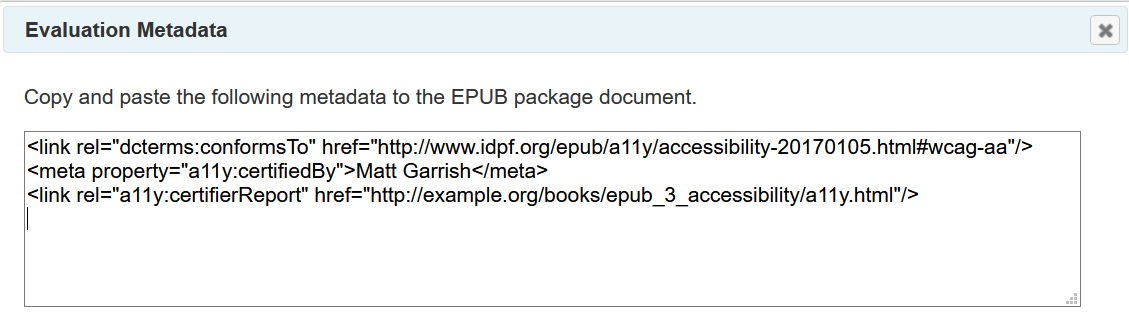
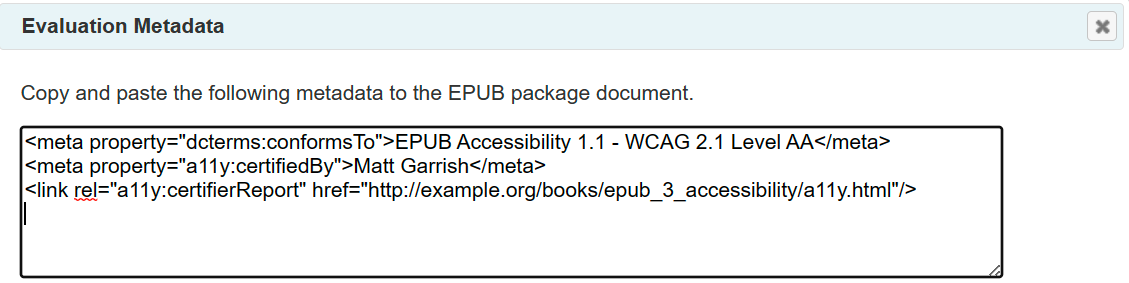
Update accessibility conformance identifiers for EPUB to the 1.1 standard

diff --git a/publishing/docs/metadata/evaluation.html b/publishing/docs/metadata/evaluation.html
@@ -23,27 +23,40 @@
 			}
 			blockquote {
 				margin-left: 1rem;
-			}</style>
+			}
+			dl.conf-map dt, dl.conf-map dd {
+				margin-left: 2rem;
+			}
+			dl.conf-map dt {
+				margin-top: 1.5rem;
+			}
+			dl.conf-map {
+				font-size: 85%;
+			}
+		</style>
 	</head>
 
 	<body>
 		<main>
 			<section id="summary">
 				<h3>Summary</h3>
-				<p>Include accessibility evaluation metadata when an assessment of a publication has been performed to
-					enable conformance discovery and provide identification of the evaluator and their credentials.</p>
+				<p>Include accessibility evaluation metadata to enable conformance discovery and provide identification
+					of the evaluator and their credentials.</p>
 			</section>
 			<section id="ex">
 				<h3>Examples</h3>
+				
 				<figure id="ex-01">
 					<figcaption>
 						<div class="label">Example 1 &#8212; Package Document metadata (EPUB 3)</div>
 						<p>The following example shows a complete set of evaluation metadata for a publication that
-							conforms to the EPUB Accessibility specification at WCAG Level AA.</p>
+							conforms to the EPUB Accessibility 1.1 specification at WCAG Level AA.</p>
 					</figcaption>
+					
 					<pre id="ex-01-src" class="prettyprint linenums small"><code>&lt;metadata>
-  &lt;link rel="dcterms:conformsTo"
-        href="http://www.idpf.org/epub/a11y/accessibility-20170105.html#wcag-aa"/>
+  &lt;meta property="dcterms:conformsTo">
+     EPUB Accessibility 1.1 - WCAG 2.0 Level AA
+  &lt;/meta>
   &lt;meta property="a11y:certifiedBy">Dewey, Checkett and Howe&lt;/meta>
   &lt;meta property="a11y:certifierCredential">Certifiably Accessible&lt;/meta>
   &lt;link rel="a11y:certifierReport"
@@ -51,15 +64,17 @@
   &#8230;
 &lt;/metadata></code></pre>
 				</figure>
+				
 				<figure id="ex-02">
 					<figcaption>
 						<div class="label">Example 2 &#8212; Package Document metadata (EPUB 2)</div>
-						<p>The following example shows how evaluation metadata is expressed in an EPUB 2 publication
+						<p>The following example shows how to express evaluation metadata in an EPUB 2 publication
 							using the <code>meta</code> tag's <code>name</code> and <code>content</code> attributes.</p>
 					</figcaption>
+					
 					<pre id="ex-02-src" class="prettyprint linenums small"><code>&lt;metadata>
   &lt;meta name="dcterms:conformsTo"
-        content="http://www.idpf.org/epub/a11y/accessibility-20170105.html#wcag-aa"/>
+        content="EPUB Accessibility 1.1 - WCAG 2.0 Level AA"/>
   &lt;meta name="a11y:certifiedBy" content="Dewey, Checkett and Howe"/>
   &lt;meta name="a11y:certifierCredential" content="Certifiably Accessible"/>
   &lt;meta name="a11y:certifierReport"
@@ -86,9 +101,9 @@
 			<section id="desc">
 				<h3>Explanation</h3>
 
-				<p>Evaluation metadata is used to provide additional information about the individual or organization
-					that has assessed a publication against accessibility standards. It also allows identification of
-					the standard(s) the publication conforms.</p>
+				<p>Evaluation metadata provides additional information about the individual or organization that has
+					assessed a publication against accessibility standards. It also allows identification of the
+					standard(s) the publication conforms.</p>
 
 				<p>All evaluation metadata described in this section with an <code>a11y:</code> prefix are defined in
 					the <a href="https://www.w3.org/TR/epub-a11y/#app-a11y-vocab">EPUB Accessibility Vocabulary</a>.</p>
@@ -102,48 +117,102 @@
 							</p>
 						</blockquote>
 
-						<p>The <code>dcterms:conformsTo</code> property provides a URL that references the standard the
-							publication conforms to. In the case of EPUB, these conformance URLs are defined in the <a
-								href="https://www.w3.org/TR/epub-a11y">EPUB Accessibility</a> specification.</p>
-
-						<p>The current values to use with this property are:</p>
-
-						<dl>
-							<dt>
-								<code>http://www.idpf.org/epub/a11y/accessibility-20170105.html#wcag-a</code>
-							</dt>
-							<dd>
-								<p>Use of this values indicates conformance with the specification at level A of
-									WCAG.</p>
-							</dd>
-							<dt>
-								<code>http://www.idpf.org/epub/a11y/accessibility-20170105.html#wcag-aa</code>
-							</dt>
-							<dd>
-								<p>Use of this values indicates conformance with the specification at level AA of
-									WCAG.</p>
-							</dd>
-						</dl>
-
-						<p>The <code>dcterms:conformsTo</code> property is only included when a publication meets the
-							requirements of a standard. It is not used to indicate failure. Use the <a
+						<p>The <code>dcterms:conformsTo</code> property in included in a publication when that publication
+							has been checked and confirmed to conform to an accessibility standard. The value is a string
+							or URL that identifies the standard.</p>
+						
+						<div class="note" role="note" aria-labelledby="conformsto-note">
+							<p class="label" id="conformsto-note">Note</p>
+							
+							<p>The property is only included when a publication meets the requirements of a standard. It is
+							not used to indicate failure. Use the <a
 								href="schema-org.html#accessibilitySummary">schema.org
 								<code>accessibilitySummary</code></a> property to record information about failures.</p>
+						</div>
+						
+						<p>For EPUB, this property identifies both the version of the EPUB Accessibility standard the 
+							publication conforms to as well as the version and level of WCAG conformance. The value of the
+							string must conform to the following pattern:</p>
+						
+						<blockquote>
+							<code>EPUB Accessibility 1.1 - WCAG 2.X Level (A|AA|AAA)</code>
+						</blockquote>
+						
+						<p>The value "<code>2.X</code>" is replaced by the version of WCAG (e.g., 2.0 or 2.1) and
+							"<code>(A|AA|AAA)</code>" is replaced by which of those levels was achieved.</p>
+						
+						<p>For example, the following values are currently valid to use with this property:</p>
+
+						<ul>
+							<li>
+								<code>EPUB Accessibility 1.1 - WCAG 2.0 Level A</code>
+							</li>
+							<li>
+								<code>EPUB Accessibility 1.1 - WCAG 2.0 Level AA</code>
+							</li>
+							<li>
+								<code>EPUB Accessibility 1.1 - WCAG 2.0 Level AAA</code>
+							</li>
+							<li>
+								<code>EPUB Accessibility 1.1 - WCAG 2.1 Level A</code>
+							</li>
+							<li>
+								<code>EPUB Accessibility 1.1 - WCAG 2.1 Level AA</code>
+							</li>
+							<li>
+								<code>EPUB Accessibility 1.1 - WCAG 2.1 Level AAA</code>
+							</li>
+						</ul>
+
+						<p>For more information about these conformance values, please refer to the <a
+							href="https://www.w3.org/TR/epub-a11y/#sec-conf-reporting-pub">Publication conformance
+							section</a> of the EPUB Accessibility specification.</p>
 
 						<dl>
 							<dt>EPUB 3 usage:</dt>
 							<dd>
-								<pre id="expl-01-src" class="prettyprint linenums small"><code>&lt;link rel="dcterms:conformsTo"
-      href="http://www.idpf.org/epub/a11y/accessibility-20170105.html#wcag-aa"/>
-</code></pre>
+								<pre id="expl-01-src" class="prettyprint linenums small"><code>&lt;meta property="dcterms:conformsTo">
+      EPUB Accessibility 1.1 - WCAG 2.0 Level AA
+&lt;/meta></code></pre>
 							</dd>
 							<dt>EPUB 2 usage:</dt>
 							<dd>
-								<pre id="expl-02-src" class="prettyprint linenums small"><code>&lt;meta name="dcterms:conformsTo"
-      content="http://www.idpf.org/epub/a11y/accessibility-20170105.html#wcag-aa"/>
-</code></pre>
+								<pre id="expl-02-src" class="prettyprint linenums small"><code>&lt;meta
+      name="dcterms:conformsTo"
+      content="EPUB Accessibility 1.1 - WCAG 2.0 Level AA"/></code></pre>
 							</dd>
 						</dl>
+						
+						<div class="note" role="note" aria-labelledby="a11y-10-note">
+							<p class="label" id="a11y-10-note">Note</p>
+							
+							<p>The EPUB Accessibility 1.0 specification was developed by the <a 
+								href="https://idpf.org/">IDPF</a> and used conformance URLs that <a 
+									href="https://idpf.org/epub/a11y/#sec-conf-reporting">contained that organization's
+									domain</a> (<code>idpf.org</code>).</p>
+							
+							<p>As IDPF no longer exists &#8212; it was merged into W3C &#8212; the EPUB Working Group
+								decided to drop the use of IDPF URLs and move to the string-based system described
+								earlier in this section. While the IDPF URLs remain valid for existing content,
+								publishers conforming to the Accessibility 1.0 requirements are encouraged to move to
+								declaring conformance to the new 1.1 specification.</p>
+							
+							<p><strong>Publications that conform to the EPUB Accessibility 1.0 standard also conform to
+								the 1.1 standard.</strong></p>
+							
+							<p>The following list maps the old identifiers to their replacements:</p>
+							
+							<dl class="conf-map">
+								<dt>Old: <code>http://www.idpf.org/epub/a11y/accessibility-20170105.html#wcag-a</code></dt>
+								<dd>New: <code>EPUB Accessibility 1.1 - WCAG 2.0 Level A</code></dd>
+							
+								<dt>Old: <code>http://www.idpf.org/epub/a11y/accessibility-20170105.html#wcag-aa</code></dt>
+								<dd>New: <code>EPUB Accessibility 1.1 - WCAG 2.0 Level AA</code></dd>
+							
+								<dt>Old: <code>http://www.idpf.org/epub/a11y/accessibility-20170105.html#wcag-aaa</code></dt>
+								<dd>New: <code>EPUB Accessibility 1.1 - WCAG 2.0 Level AAA</code></dd>
+							</dl>
+						</div>
 					</dd>
 
 					<dt id="a11y:certifiedBy">a11y:certifiedBy</dt>
@@ -178,10 +247,13 @@
 									accessible.</em>
 							</p>
 						</blockquote>
+						
 						<p>The <code>a11y:certifierCredential</code> property is used to provide more information about
 							the credentials of the certifier to carry out accessibility evaluations.</p>
+						
 						<p>The property can either be a text field with the name of the credential held, or it can be a
 							link to a description of the credential.</p>
+						
 						<dl>
 							<dt>EPUB 3 usage:</dt>
 							<dd>

diff --git a/publishing/docs/new/index.html b/publishing/docs/new/index.html
@@ -34,6 +34,18 @@
 				<p>Changes are listed from most recent to oldest.</p>
 				
 				<dl class="value">
+					<dt>April 17, 2023 &#8212; Evaluation metadata</dt>
+					<dd>
+						<p>Now that the EPUB Accessibility 1.1 standard has reached Proposed Recommendation status
+							in W3C, the <a href="../metadata/evaluation.html">guidance on reporting conformance</a> now
+							reflects the new identifiers used in that document.</p>
+						<p>Where the EPUB Accessibility 1.0 specification used <code>idpf.org</code> URLs to indicate
+							conformance, the new standard uses easier to write and understand strings. The strings
+							also adapt to new versions of WCAG as soon as they are released.</p>
+						<p>Publishers are encouraged to begin looking at migrating to the new standard as it should
+							become a final recommendation in the next month.</p>
+					</dd>
+					
 					<dt>March 24, 2023 &#8212; <code>pageBreakMarkers</code> and <code>pageNavigation</code>
 						accessibility features</dt>
 					<dd>

diff --git a/publishing/docs/epub/validation/smart.html b/publishing/docs/epub/validation/smart.html
@@ -257,7 +257,9 @@
 						<details id="eval-meta-details" class="desc">
 							<summary>Description</summary>
 							<p>The following three EPUB metadata tags are depicted in the dialog window:</p>
-							<pre id="eval-meta-src" class="prettyprint"><code>&lt;link rel="dcterms:conformsTo" href="http://www.idpf.org/epub/a11y/accessibility-20170105.html#wcag-aa"/>
+							<pre id="eval-meta-src" class="prettyprint"><code>&lt;meta property="dcterms:conformsTo">
+   EPUB Accessibility 1.1 - WCAG 2.1 Level AA
+&lt;/meta>
 &lt;meta property="a11y:certifiedBy">Matt Garrish&lt;/meta>
 &lt;link rel="a11y:certifierReport" href="http://example.org/books/epub_3_accessibility/a11y.html"/></code></pre>
 						</details>
